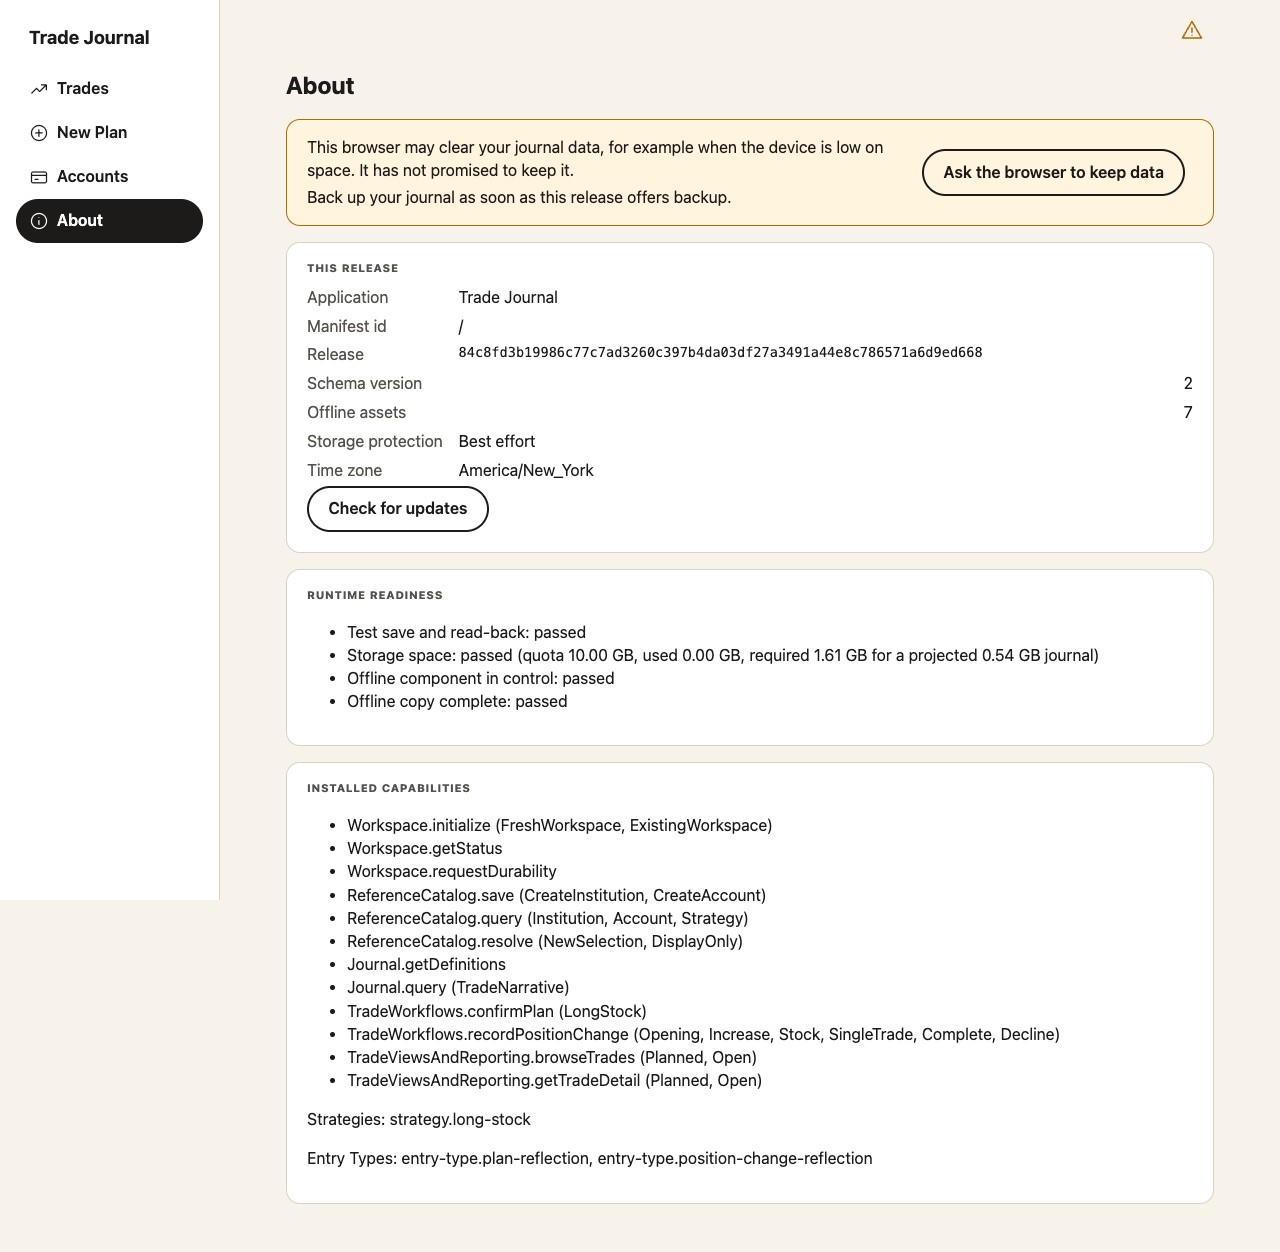
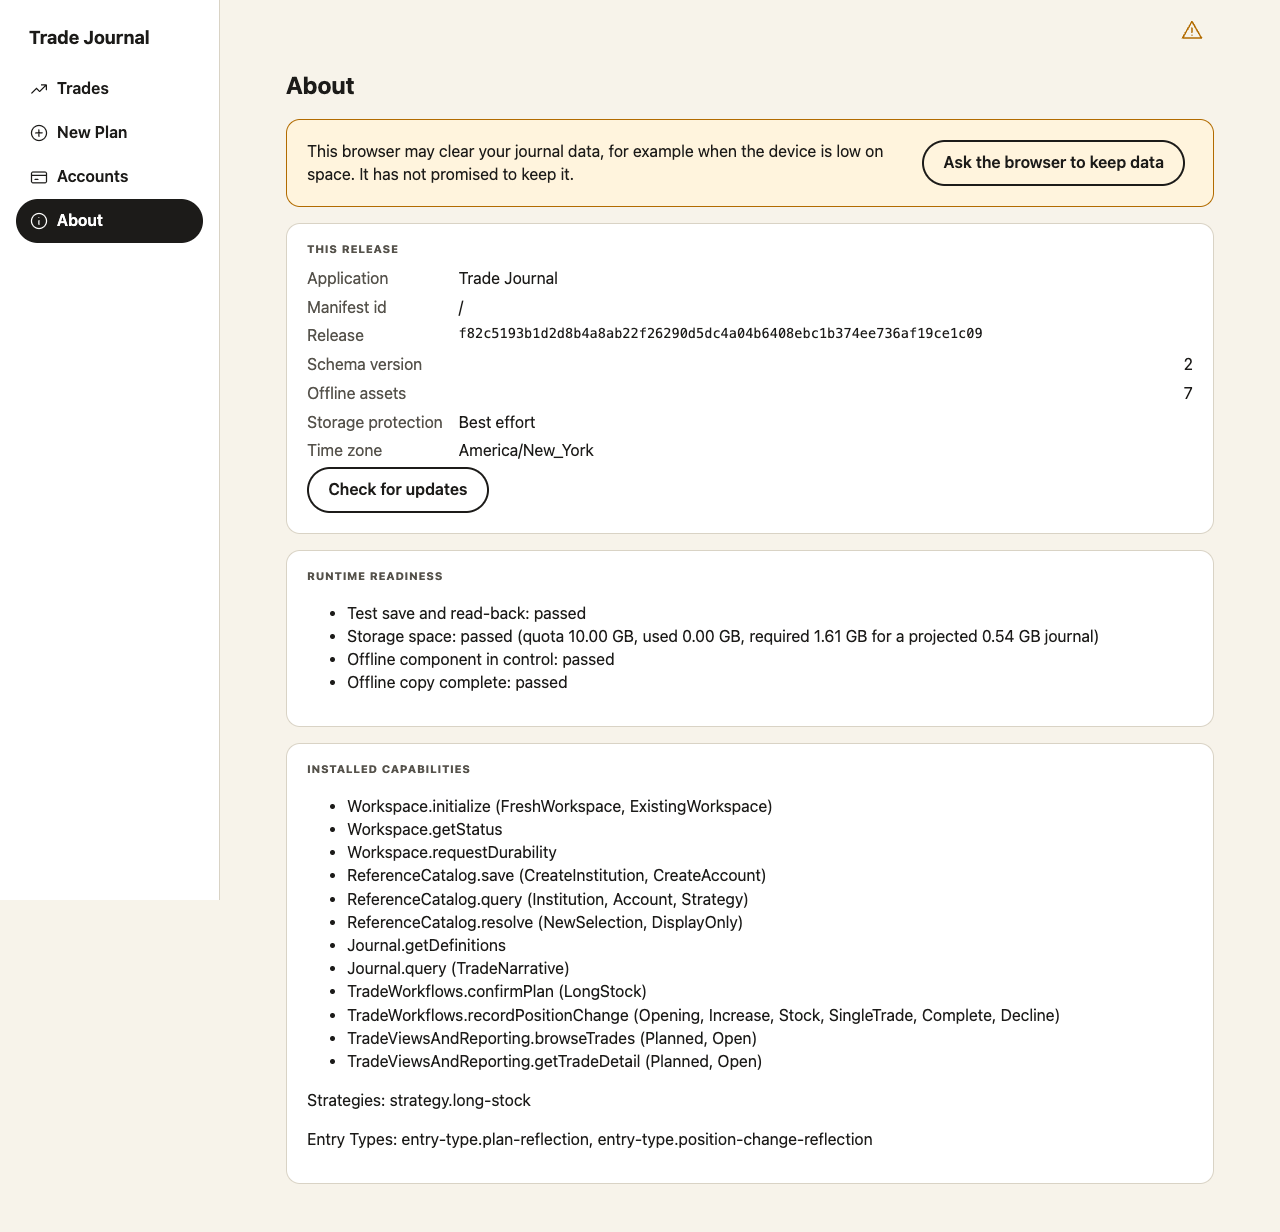
fix(ui): T2.60-B1 keep the storage request outcome in the shell
Claude-Session: https://claude.ai/code/session_0115bntoBTHkkC72fZTEU7bt

Changed region(s): [[0.2188, 0.0617, 0.9375, 0.9253], [0.3438, 0.2159, 0.7812, 0.3084], [0.0, 0.0617, 0.1562, 0.2159]]

diff --git a/src/ui/AppShell.test.tsx b/src/ui/AppShell.test.tsx
@@ -207,12 +207,11 @@ describe('storage warning', () => {
     }
   });
 
-  it('should show the full storage card on About, with the explanation, the backup recommendation, and Ask the browser to keep data when protection is Best Effort', async () => {
+  it('should show the full storage card on About, with the explanation and Ask the browser to keep data when protection is Best Effort', async () => {
     const facade = facadeDouble({ status: readyStatus({ protection: 'BestEffort' }) });
     renderShell(facade, '/about', aboutScreen(facade));
     const card = await screen.findByRole('region', { name: 'Storage protection' });
     expect(within(card).getByText(/this browser may clear your journal data/i)).toBeTruthy();
-    expect(within(card).getByText(/back up/i)).toBeTruthy();
     expect(within(card).getByRole<HTMLButtonElement>('button', { name: 'Ask the browser to keep data' }).disabled).toBe(false);
     cleanup();
 
@@ -244,6 +243,61 @@ describe('storage warning', () => {
     expect(await screen.findByText(/the browser will now keep your journal data/i)).toBeTruthy();
     expect(screen.queryByRole('link', ICON)).toBeNull();
     expect(screen.queryByText(/this browser may clear your journal data/i)).toBeNull();
+  });
+
+  it('should not recommend a backup in the storage card on About, since no backup exists before D8', async () => {
+    const facade = facadeDouble({ status: readyStatus({ protection: 'BestEffort' }) });
+    renderShell(facade, '/about', aboutScreen(facade));
+    const card = await screen.findByRole('region', { name: 'Storage protection' });
+    expect(within(card).queryByText(/back up/i)).toBeNull();
+  });
+
+  it('should keep the decline notice and no ask button after leaving About and returning', async () => {
+    const facade = facadeDouble({ status: readyStatus({ protection: 'BestEffort' }) });
+    vi.mocked(facade.Workspace.requestDurability).mockResolvedValue({
+      kind: 'NotImproved',
+      currentProtection: { kind: 'BestEffort', reason: 'HostDeclined' },
+    });
+    const Nav = () => (
+      <nav>
+        <Link to="/">Go to Trades</Link>
+        <Link to="/about">Go to About</Link>
+      </nav>
+    );
+    const About = aboutScreen(facade)['about']!;
+    renderShell(facade, '/about', { about: () => <><Nav /><About /></> });
+    const user = userEvent.setup();
+    await user.click(await screen.findByRole('button', { name: 'Ask the browser to keep data' }));
+    expect(await screen.findByText(/the browser declined/i)).toBeTruthy();
+    await user.click(screen.getByRole('link', { name: 'Go to Trades' }));
+    await screen.findByText('Trades screen');
+    await user.click(screen.getByRole('link', { name: 'Storage not protected: see About' }));
+    expect(await screen.findByText(/the browser declined/i)).toBeTruthy();
+    expect(screen.queryByRole('button', { name: 'Ask the browser to keep data' })).toBeNull();
+  });
+
+  it('should show no warning icon on the first shell screen after a successful request during first run', async () => {
+    const facade = facadeDouble({ status: readyStatus({ kind: 'InitializationRequired', protection: 'BestEffort' }) });
+    vi.mocked(facade.Workspace.requestDurability).mockResolvedValue({ kind: 'Improved', currentProtection: 'Protected' });
+    vi.mocked(facade.Workspace.initialize).mockResolvedValue({ kind: 'Opened', status: readyStatus({ protection: 'BestEffort' }) } as never);
+    renderShell(facade);
+    const user = userEvent.setup();
+    await user.click(await screen.findByRole('button', { name: 'Ask the browser to keep data' }));
+    await screen.findByText(/the browser will now keep your journal data/i);
+    await user.click(screen.getByRole('button', { name: 'Start my journal' }));
+    await screen.findByText('Trades screen');
+    expect(screen.queryByRole('link', ICON)).toBeNull();
+  });
+
+  it('should show the Storage protection row as Protected on About after a successful request in the same visit', async () => {
+    const facade = facadeDouble({ status: readyStatus({ protection: 'BestEffort' }) });
+    vi.mocked(facade.Workspace.requestDurability).mockResolvedValue({ kind: 'Improved', currentProtection: 'Protected' });
+    renderShell(facade, '/about', aboutScreen(facade));
+    const user = userEvent.setup();
+    await user.click(await screen.findByRole('button', { name: 'Ask the browser to keep data' }));
+    await screen.findByText(/the browser will now keep your journal data/i);
+    const term = screen.getByText('Storage protection', { selector: 'dt' });
+    expect(term.nextElementSibling?.textContent).toBe('Protected');
   });
 
   it('should show neither icon nor card when protection is Protected', async () => {

diff --git a/src/ui/AppShell.tsx b/src/ui/AppShell.tsx
@@ -28,7 +28,7 @@ import {
   TradesIcon,
   WarningIcon,
 } from "./icons.tsx";
-import { RuntimeContext } from "./runtime.tsx";
+import { RuntimeContext, type Durability } from "./runtime.tsx";
 import { StorageProtectionCard } from "./StorageProtectionCard.tsx";
 import { FirstRun } from "./screens/FirstRun.tsx";
 import { OnboardingAccount } from "./screens/OnboardingAccount.tsx";
@@ -117,8 +117,11 @@ export function AppShell({
   // Where the refusal arrived, so the form open there keeps its values (see `routes` below).
   const { pathname } = useLocation();
   const [refusedAt, setRefusedAt] = useState<string | undefined>();
-  // Set once the trader's durability request succeeds on About, which removes the warning icon.
-  const [storageKept, setStorageKept] = useState(false);
+  // The outcome of the trader's one durability request, shared by every screen that shows the card.
+  const [durability, setDurability] = useState<Durability | undefined>();
+  const requestDurability = useCallback(() => {
+    void facade.Workspace.requestDurability().then(setDurability);
+  }, [facade]);
   // While initialize converts an older stored schema (D2 A31).
   const [migrating, setMigrating] = useState(false);
   // The last conversion attempt's failure: the old data is unchanged and nothing is Ready.
@@ -271,7 +274,11 @@ export function AppShell({
     return (
       <>
         {/* About is not reachable before a Workspace exists, so the full card stays here. */}
-        <StorageProtectionCard facade={facade} protection={status.protection} />
+        <StorageProtectionCard
+          protection={status.protection}
+          durability={durability}
+          onRequest={requestDurability}
+        />
         <FirstRun facade={facade} onOpened={setStatus} />
       </>
     );
@@ -284,7 +291,11 @@ export function AppShell({
   ) {
     return (
       <>
-        <StorageProtectionCard facade={facade} protection={status.protection} />
+        <StorageProtectionCard
+          protection={status.protection}
+          durability={durability}
+          onRequest={requestDurability}
+        />
         <OnboardingAccount
           facade={facade}
           onReady={() =>
@@ -314,6 +325,7 @@ export function AppShell({
     (failure) => failure.reason === "SessionSuperseded",
   );
   const aboutRoute = routes.find((route) => route.id === "about");
+  const storageKept = durability !== undefined && durability.kind !== "NotImproved";
   const showStorageIcon =
     status.protection !== "Protected" && !storageKept && aboutRoute !== undefined;
   const report = (result: { readonly kind: string }) => {
@@ -328,7 +340,8 @@ export function AppShell({
       value={{
         writable,
         report,
-        onStorageKept: () => setStorageKept(true),
+        durability,
+        requestDurability,
         timeZone: "timeZone" in status ? status.timeZone : undefined,
       }}
     >

diff --git a/src/ui/StorageProtectionCard.tsx b/src/ui/StorageProtectionCard.tsx
@@ -1,23 +1,16 @@
-import { useState } from 'react';
-import type { UiFacade } from '../app/compose.ts';
-
-type Durability = Awaited<ReturnType<UiFacade['Workspace']['requestDurability']>>;
+import type { Durability } from './runtime.tsx';
 
 export interface StorageProtectionCardProps {
-  readonly facade: UiFacade;
   readonly protection: 'Protected' | 'BestEffort' | 'Unavailable';
-  // About adds the backup recommendation; first run and onboarding stay compact.
-  readonly recommendBackup?: boolean;
-  // Called when the browser agrees to keep the data.
-  readonly onKept?: () => void;
+  // The shell's outcome of the request, and the shell function that makes it.
+  readonly durability?: Durability;
+  readonly onRequest?: () => void;
 }
 
 // The advisory storage warning (ADR 0009): the explanation, the one explicit request, and its honest
 // result. It never disables a control. About shows it; first run and onboarding, which have no About
 // to link to, show it themselves.
-export function StorageProtectionCard({ facade, protection, recommendBackup, onKept }: StorageProtectionCardProps) {
-  // The honest outcome of the trader's explicit durability request, if any.
-  const [durability, setDurability] = useState<Durability | undefined>();
+export function StorageProtectionCard({ protection, durability, onRequest }: StorageProtectionCardProps) {
   return (
     <>
       {durability && durability.kind !== 'NotImproved' && (
@@ -32,8 +25,6 @@ export function StorageProtectionCard({ facade, protection, recommendBackup, onK
               This browser may clear your journal data, for example when the device is low on space. It has not promised
               to keep it.
             </p>
-            {/* About has the room; first run and onboarding keep the compact card (T2.37). */}
-            {recommendBackup && <p>Back up your journal as soon as this release offers backup.</p>}
             {durability?.kind === 'NotImproved' && (
               <p role="status">
                 {durability.currentProtection.kind === 'BestEffort'
@@ -46,12 +37,7 @@ export function StorageProtectionCard({ facade, protection, recommendBackup, onK
             <button
               type="button"
               className="pill secondary"
-              onClick={() =>
-                void facade.Workspace.requestDurability().then((result) => {
-                  setDurability(result);
-                  if (result.kind !== 'NotImproved') onKept?.();
-                })
-              }
+              onClick={onRequest}
             >
               Ask the browser to keep data
             </button>

diff --git a/src/ui/screens/AboutView.tsx b/src/ui/screens/AboutView.tsx
@@ -26,12 +26,14 @@ const gb = (bytes: number) => `${(bytes / 1024 ** 3).toFixed(2)} GB`;
 // Evidence about this installed release and this browser, never a support verdict by identity.
 export function AboutView({ facade, updates }: AboutViewProps) {
   const [status, setStatus] = useState<Status | undefined>();
-  const { onStorageKept } = useRuntime();
+  const { durability, requestDurability } = useRuntime();
   const [checked, setChecked] = useState<'NoUpdate' | 'UpdateWaiting' | undefined>();
   useEffect(() => {
     void facade.Workspace.getStatus().then(setStatus);
   }, [facade]);
   if (!status) return <p role="status">Loading release details…</p>;
+  // A request the browser granted in this session outranks the status read when About opened.
+  const kept = durability !== undefined && durability.kind !== 'NotImproved';
 
   const { checks } = status.readiness;
   const inventory = checks.inventory.evidence;
@@ -49,7 +51,7 @@ export function AboutView({ facade, updates }: AboutViewProps) {
   return (
     <article className="about">
       <h1>About</h1>
-      <StorageProtectionCard facade={facade} protection={status.protection} recommendBackup onKept={onStorageKept} />
+      <StorageProtectionCard protection={status.protection} durability={durability} onRequest={requestDurability} />
       <section className="card" aria-labelledby="release-heading">
         <h2 id="release-heading">This release</h2>
         <dl>
@@ -64,7 +66,7 @@ export function AboutView({ facade, updates }: AboutViewProps) {
           <dt>Offline assets</dt>
           <dd className="number">{inventory && 'assetCount' in inventory ? String(inventory.assetCount) : 'Unknown'}</dd>
           <dt>Storage protection</dt>
-          <dd>{PROTECTION[status.protection]}</dd>
+          <dd>{PROTECTION[kept ? 'Protected' : status.protection]}</dd>
           <dt>Time zone</dt>
           <dd>{'timeZone' in status ? status.timeZone : 'Not set'}</dd>
         </dl>

diff --git a/src/ui/runtime.tsx b/src/ui/runtime.tsx
@@ -1,4 +1,8 @@
 import { createContext, useContext } from 'react';
+import type { UiFacade } from '../app/compose.ts';
+
+// The outcome of the trader's one explicit durability request.
+export type Durability = Awaited<ReturnType<UiFacade['Workspace']['requestDurability']>>;
 
 // What every screen needs to know about the session: whether authoritative writes are allowed,
 // and where to report a mutation result so a refusal changes the whole shell at once.
@@ -7,8 +11,10 @@ export interface RuntimeState {
   // The Workspace time zone, once a Workspace exists.
   readonly timeZone?: string;
   readonly report: (result: { readonly kind: string }) => void;
-  // About calls this when the browser agrees to keep the data, so the shell drops the warning icon.
-  readonly onStorageKept?: () => void;
+  // The outcome of the durability request, if one was made. Held by the shell so it outlives any screen.
+  readonly durability?: Durability;
+  // Asks the browser to keep the data and records the outcome in the shell.
+  readonly requestDurability?: () => void;
 }
 
 export const RuntimeContext = createContext<RuntimeState>({ writable: false, report: () => undefined });

diff --git a/e2e/d2/ui-alignment.spec.ts b/e2e/d2/ui-alignment.spec.ts
@@ -160,7 +160,7 @@ test.describe('T2.60 storage warning icon', () => {
       await expect(page.getByRole('heading', { name: 'About' })).toBeVisible();
       const card = page.getByRole('region', { name: 'Storage protection' });
       await expect(card).toBeVisible();
-      await expect(card.getByText('Back up your journal')).toBeVisible();
+      await expect(card.getByText('Back up your journal')).toHaveCount(0);
       await expectAccessible(page, `About with the storage card at ${width}`);
       await context.close();
     });

diff --git a/evidence/D02/tdd-log.md b/evidence/D02/tdd-log.md
@@ -754,3 +754,13 @@ Every `it should` case from D2's breakdown, section 4, run red and then green, o
 | T2.60 | should show neither icon nor card when protection is Protected | green | `npx vitest run src/ui/AppShell.test.tsx -t "should show neither icon nor card when protection is Protected"` | exit 0; Tests  1 passed, 26 skipped (27) |  |
 | T2.60 | should show neither icon nor card when protection is Protected | note | `npx vitest run src/ui/AppShell.test.tsx -t "should show neither icon nor card when protection is Protected"` | First-run pass, flagged for the user. The case 1 icon condition (`status.protection !== "Protected"`) and the card's own Protected check built the behavior. Mutation: the icon shown whatever the protection. | AssertionError: expected <a …(3)><svg …(11)>…(2)</svg></a> to be null |
 | T2.60 | (all four cases) | refactor | none | The card moved out of AppShell into src/ui/StorageProtectionCard.tsx (state and request now local to it); the shell keeps only the icon and a storageKept flag, set through RuntimeState.onStorageKept. Test names lost their quotes (tdd.sh -t filtering). Added beyond the planned wording: a fifth case, first run and onboarding keep the full card and no icon (About is not reachable there), replacing the old first-run case. |
+| T2.60-B1 | should keep the decline notice and no ask button after leaving About and returning | red | `npx vitest run src/ui/AppShell.test.tsx -t "should keep the decline notice and no ask button after leaving About and returning"` | exit 1; Tests  1 failed, 29 skipped (30) | TestingLibraryElementError: Unable to find an element with the text: /the browser declined/i. This could be because the text is broken up by multiple elements. In this case, you can provide a function for your text match |
+| T2.60-B1 | should show no warning icon on the first shell screen after a successful request during first run | red | `npx vitest run src/ui/AppShell.test.tsx -t "should show no warning icon on the first shell screen after a successful request during first run"` | exit 1; Tests  1 failed, 29 skipped (30) | AssertionError: expected <a …(3)><svg …(11)>…(2)</svg></a> to be null  |
+| T2.60-B1 | should show the Storage protection row as Protected on About after a successful request in the same visit | red | `npx vitest run src/ui/AppShell.test.tsx -t "should show the Storage protection row as Protected on About after a successful request in the same visit"` | exit 1; Tests  1 failed, 29 skipped (30) | AssertionError: expected 'Best effort' to be 'Protected' // Object.is equality Expected: "Protected"  |
+| T2.60-B1 | should keep the decline notice and no ask button after leaving About and returning | green | `npx vitest run src/ui/AppShell.test.tsx -t "should keep the decline notice and no ask button after leaving About and returning"` | exit 0; Tests  1 passed, 29 skipped (30) |  |
+| T2.60-B1 | should show no warning icon on the first shell screen after a successful request during first run | green | `npx vitest run src/ui/AppShell.test.tsx -t "should show no warning icon on the first shell screen after a successful request during first run"` | exit 0; Tests  1 passed, 29 skipped (30) |  |
+| T2.60-B1 | should show the Storage protection row as Protected on About after a successful request in the same visit | green | `npx vitest run src/ui/AppShell.test.tsx -t "should show the Storage protection row as Protected on About after a successful request in the same visit"` | exit 0; Tests  1 passed, 29 skipped (30) |  |
+| T2.60-B1 | (all three cases) | refactor | none | The request outcome moved from the card's local state to the shell (`durability` plus `requestDurability` on RuntimeState); StorageProtectionCard takes `durability` and `onRequest` instead of `facade` and `onKept`; `onStorageKept` and `onKept` removed; the icon and About's Storage protection row derive from the shell outcome. Test case 1 uses a small navigation stub around About. |
+| T2.60-B1 | should not recommend a backup in the storage card on About, since no backup exists before D8 | red | `npx vitest run src/ui/AppShell.test.tsx -t "should not recommend a backup in the storage card on About, since no backup exists before D8"` | exit 1; Tests  1 failed, 30 skipped (31) | AssertionError: expected <p></p> to be null  |
+| T2.60-B1 | should not recommend a backup in the storage card on About, since no backup exists before D8 | green | `npx vitest run src/ui/AppShell.test.tsx -t "should not recommend a backup in the storage card on About, since no backup exists before D8"` | exit 0; Tests  1 passed, 30 skipped (31) |  |
+| T2.60-B1 | should not recommend a backup in the storage card on About, since no backup exists before D8 | note | none | Decision 2 of plan/implementation-plan.md: no backup wording before backup exists. Removed the sentence and the `recommendBackup` prop; the T2.60 About-card case lost its `back up` assertion and the phrase from its name. |

diff --git a/evidence/D02/structural.md b/evidence/D02/structural.md
@@ -1953,3 +1953,10 @@ The full storage card moved to About (`src/ui/StorageProtectionCard.tsx`, used b
 | (question d) | `icons.tsx:5-21`, `app.css` | Exact name, `aria-hidden` SVG, 44 px target, distinct glyph | Holds (code reading) |
 
 **Complete cumulative run after T2.60** (`suite-runner`, 2026-10-25 22:56 EDT, on `05e1e8b`): Unit 42 files / 444 tests passed; Node integration 21 / 49 passed; Browser (Chromium) 100 passed (3.1m); static and verify checks 11 of 11 exit 0; `npm run ui:screenshots` exit 0, 34 PNGs (re-renders reverted). Failures: none. Outputs: `suite-runs/t2.60-*.txt`.
+
+### T2.60-B1 Keep the storage request outcome in the shell
+
+Fixes the three Valid ocr findings on 05e1e8b. The outcome of `Workspace.requestDurability` is held once in `AppShell` and exposed as `RuntimeState.durability` and `RuntimeState.requestDurability`; every `StorageProtectionCard` reads it and requests through that function. The icon and About's Storage protection row derive from it. `onStorageKept` and `onKept` are removed.
+
+- `src/ui/AppShell.test.tsx`: three cases added to "storage warning" (decline survives leaving About; no icon after a first-run success; the About row reads Protected after success).
+- Also, on the coordinator's instruction citing decision 2 of `plan/implementation-plan.md` (the warning offers the durability request but does not recommend a backup until D8): removed "Back up your journal as soon as this release offers backup" and the `recommendBackup` prop; new case "should not recommend a backup in the storage card on About" (red then green); the T2.60 About-card case no longer asserts the sentence.
